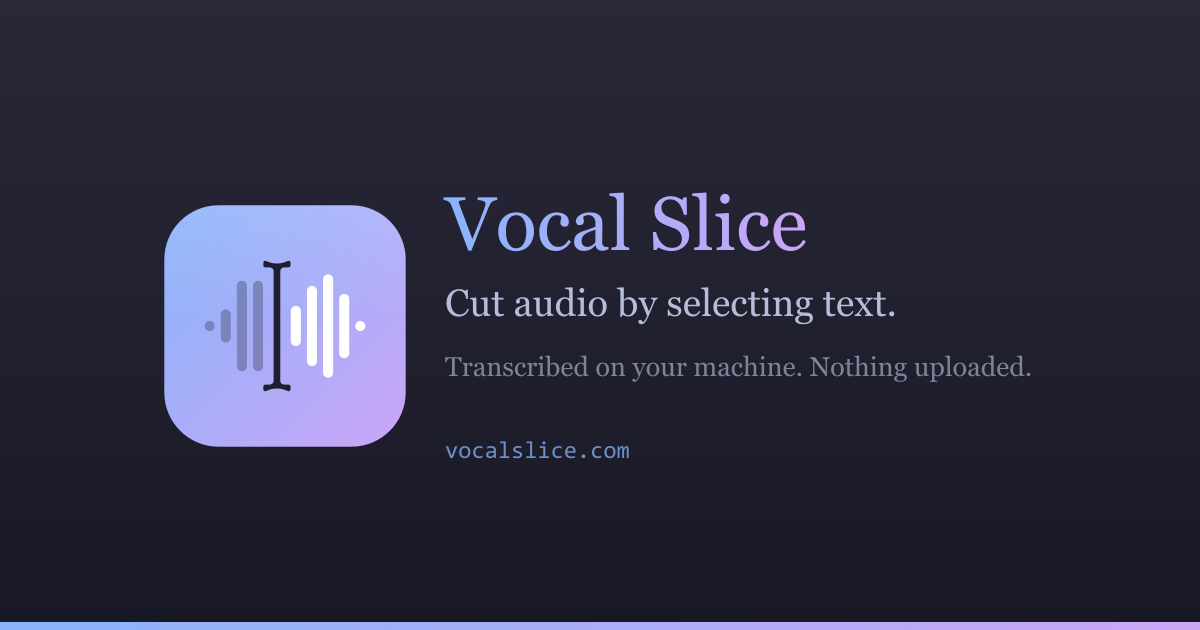
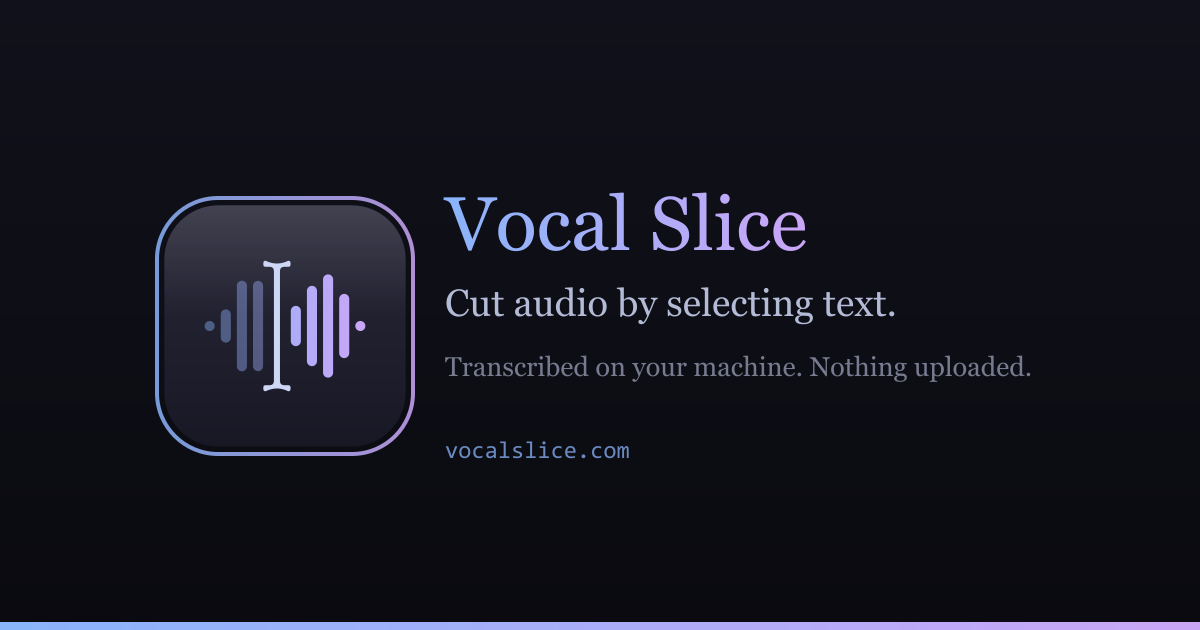
dark styling

diff --git a/styles.css b/styles.css
@@ -33,63 +33,9 @@
     --page: 1040px;
 }
 
-/* Latte (light) — same tokens, app's own light values. */
-@media (prefers-color-scheme: light) {
-    :root {
-        --base: #eff1f5;
-        --mantle: #e6e9ef;
-        --crust: #dce0e8;
-        --surface0: #ccd0da;
-        --surface1: #bcc0cc;
-        --surface2: #acb0be;
-        --overlay0: #9ca0b0;
-        --text: #4c4f69;
-        --subtext0: #6c6f85;
-        --blue: #1e66f5;
-        --mauve: #8839ef;
-        --green: #40a02b;
-        --red: #d20f39;
-        --yellow: #df8e1d;
-        --shadow: 0 18px 44px rgba(76, 79, 105, 0.16);
-    }
-}
-
-/* Explicit overrides must beat the media query in both directions. */
-:root[data-theme="light"] {
-    --base: #eff1f5;
-    --mantle: #e6e9ef;
-    --crust: #dce0e8;
-    --surface0: #ccd0da;
-    --surface1: #bcc0cc;
-    --surface2: #acb0be;
-    --overlay0: #9ca0b0;
-    --text: #4c4f69;
-    --subtext0: #6c6f85;
-    --blue: #1e66f5;
-    --mauve: #8839ef;
-    --green: #40a02b;
-    --red: #d20f39;
-    --yellow: #df8e1d;
-    --shadow: 0 18px 44px rgba(76, 79, 105, 0.16);
-}
-
-:root[data-theme="dark"] {
-    --base: #1e1e2e;
-    --mantle: #181825;
-    --crust: #11111b;
-    --surface0: #313244;
-    --surface1: #45475a;
-    --surface2: #585b70;
-    --overlay0: #6c7086;
-    --text: #cdd6f4;
-    --subtext0: #a6adc8;
-    --blue: #89b4fa;
-    --mauve: #cba6f7;
-    --green: #a6e3a1;
-    --red: #f38ba8;
-    --yellow: #f9e2af;
-    --shadow: 0 18px 48px rgba(0, 0, 0, 0.38);
-}
+/* Dark-only by design: the brand commits to Mocha, so the site does not follow the OS light
+   preference and carries no Latte palette or theme toggle. `color-scheme: dark` in the head keeps
+   native controls dark to match. */
 
 /* ── Base ─────────────────────────────────────────────────────────────────── */
 *, *::before, *::after { box-sizing: border-box; }
@@ -181,9 +127,8 @@ h1, h2, h3 { text-wrap: balance; margin: 0; line-height: 1.2; }
 .brand:hover { color: var(--text); }
 
 /* The real app icon, not a CSS approximation — the tile carries its own rounded corners and colour,
-   so it looks the same here as in a taskbar or dock.
-   Set as a background rather than an <img> so it can follow the site's data-theme override as well
-   as the OS preference; an <img src> can only be swapped by <picture>, which ignores data-theme. */
+   so it looks the same here as in a taskbar or dock. The site is dark-only, so the dark tile is used
+   unconditionally (no light-mode gradient variant). */
 .brand-mark {
     width: 26px;
     height: 26px;
@@ -192,15 +137,6 @@ h1, h2, h3 { text-wrap: balance; margin: 0; line-height: 1.2; }
     border-radius: 6px;   /* clips any anti-aliasing fringe outside the tile's own corners */
     background: url("favicon.svg") center / contain no-repeat;
 }
-
-/* The near-black tile sits heavily on a pale page, so light mode gets the gradient variant.
-   Same three-way pattern as the colour tokens: media query for the OS preference, then both
-   data-theme values so the site's own toggle wins in either direction. */
-@media (prefers-color-scheme: light) {
-    .brand-mark { background-image: url("favicon-light.svg"); }
-}
-:root[data-theme="light"] .brand-mark { background-image: url("favicon-light.svg"); }
-:root[data-theme="dark"]  .brand-mark { background-image: url("favicon.svg"); }
 
 .nav {
     display: flex;

diff --git a/index.html b/index.html
@@ -5,15 +5,12 @@
 <meta name="viewport" content="width=device-width, initial-scale=1">
 <title>Vocal Slice — cut audio by selecting text</title>
 <meta name="description" content="Vocal Slice transcribes your audio on your own machine, then lets you cut precise clips by selecting text. Word-accurate, source-quality, fully offline.">
-<meta name="color-scheme" content="dark light">
+<meta name="color-scheme" content="dark">
 <link rel="stylesheet" href="styles.css">
 
-<!-- SVG scales to any tab/bookmark size; PNGs cover browsers without SVG favicon support.
-     The media pair swaps to the gradient tile in light mode. Note this follows the OS preference
-     only — a favicon can't react to the in-page theme toggle. Support for media on favicon links
-     varies, so the unconditional PNGs below are the fallback. -->
-<link rel="icon" href="favicon.svg" type="image/svg+xml" media="(prefers-color-scheme: dark)">
-<link rel="icon" href="favicon-light.svg" type="image/svg+xml" media="(prefers-color-scheme: light)">
+<!-- SVG scales to any tab/bookmark size; PNGs cover browsers without SVG favicon support. The brand
+     is dark-only, so the dark tile is used unconditionally in every context. -->
+<link rel="icon" href="favicon.svg" type="image/svg+xml">
 <link rel="icon" href="favicon-32.png" sizes="32x32" type="image/png">
 <link rel="icon" href="favicon-16.png" sizes="16x16" type="image/png">
 <link rel="apple-touch-icon" href="apple-touch-icon.png">
@@ -40,9 +37,8 @@
     <div class="wrap">
         <!-- Relative, not "/": a project Pages site lives at user.github.io/vocal-slice-web/ -->
         <a class="brand" href="index.html">
-            <!-- Same files as the favicon, so the header mark is guaranteed identical to the app
-                 icon and is already cached. Set via CSS background so it can follow BOTH the OS
-                 preference and the site's own data-theme override. -->
+            <!-- Same file as the favicon, so the header mark is guaranteed identical to the app
+                 icon and is already cached. Set via CSS background (the dark tile, unconditionally). -->
             <span class="brand-mark" aria-hidden="true"></span>
             Vocal Slice
         </a>

diff --git a/privacy.html b/privacy.html
@@ -5,11 +5,10 @@
 <meta name="viewport" content="width=device-width, initial-scale=1">
 <title>Privacy Policy — Vocal Slice</title>
 <meta name="description" content="How Vocal Slice handles your audio, what it stores, and the only two times it uses the internet.">
-<meta name="color-scheme" content="dark light">
+<meta name="color-scheme" content="dark">
 <link rel="stylesheet" href="styles.css">
 
-<link rel="icon" href="favicon.svg" type="image/svg+xml" media="(prefers-color-scheme: dark)">
-<link rel="icon" href="favicon-light.svg" type="image/svg+xml" media="(prefers-color-scheme: light)">
+<link rel="icon" href="favicon.svg" type="image/svg+xml">
 <link rel="icon" href="favicon-32.png" sizes="32x32" type="image/png">
 <link rel="icon" href="favicon-16.png" sizes="16x16" type="image/png">
 <link rel="apple-touch-icon" href="apple-touch-icon.png">
